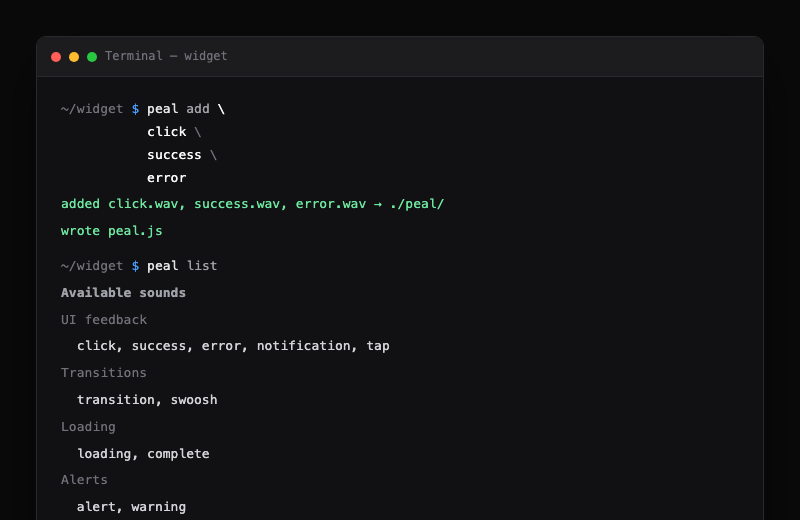
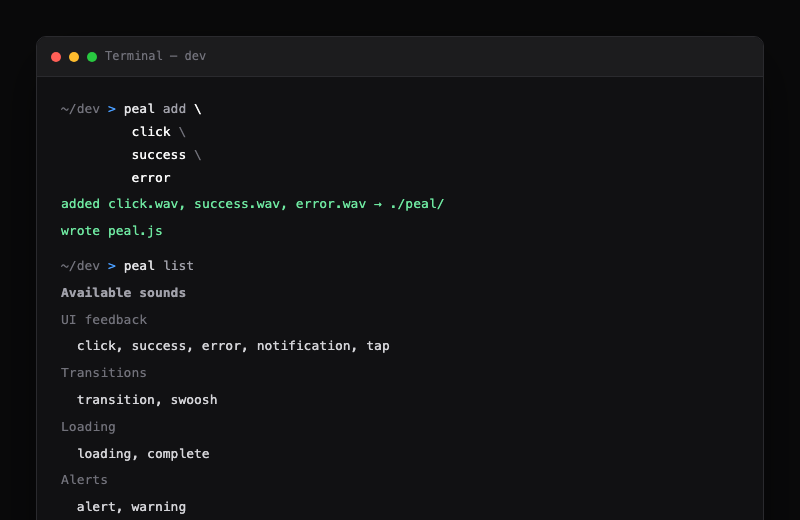
📝 Use ~/dev > prompt in CLI screenshot

diff --git a/docs/screenshots/terminal-cli.html b/docs/screenshots/terminal-cli.html
@@ -46,7 +46,7 @@
     .bin { color: #e4e4e7; }
     .subcmd { color: #a1a1aa; }
     .arg { color: #fafafa; }
-    .cont { color: #52525b; padding-left: 11ch; }
+    .cont { color: #52525b; padding-left: 9ch; }
     .ok { color: #6ee7a0; }
     .dim { color: #71717a; }
     .label { color: #a1a1aa; font-weight: 600; margin-top: 10px; }
@@ -61,11 +61,11 @@
       <span class="dot red"></span>
       <span class="dot yellow"></span>
       <span class="dot green"></span>
-      <span>Terminal — widget</span>
+      <span>Terminal — dev</span>
     </div>
     <div class="terminal">
       <div class="line">
-        <span class="path">~/widget</span> <span class="sigil">$</span>
+        <span class="path">~/dev</span> <span class="sigil">&gt;</span>
         <span class="bin"> peal</span><span class="subcmd"> add</span><span class="arg"> \</span>
       </div>
       <div class="line cont"><span class="arg">click</span><span class="dim"> \</span></div>
@@ -76,7 +76,7 @@
       <div class="line output ok">wrote peal.js</div>
 
       <div class="line gap">
-        <span class="path">~/widget</span> <span class="sigil">$</span>
+        <span class="path">~/dev</span> <span class="sigil">&gt;</span>
         <span class="bin"> peal</span><span class="subcmd"> list</span>
       </div>
 
@@ -91,7 +91,7 @@
       <div class="line output sounds">alert, warning</div>
 
       <div class="line gap">
-        <span class="path">~/widget</span> <span class="sigil">$</span>
+        <span class="path">~/dev</span> <span class="sigil">&gt;</span>
         <span class="cursor"></span>
       </div>
     </div>

diff --git a/README.npm.md b/README.npm.md
@@ -28,7 +28,7 @@ peal add \
 That writes something like:
 
 ```
-widget/
+dev/
 ├── peal.js          # generated — import this in your app
 └── peal/
     ├── click.wav